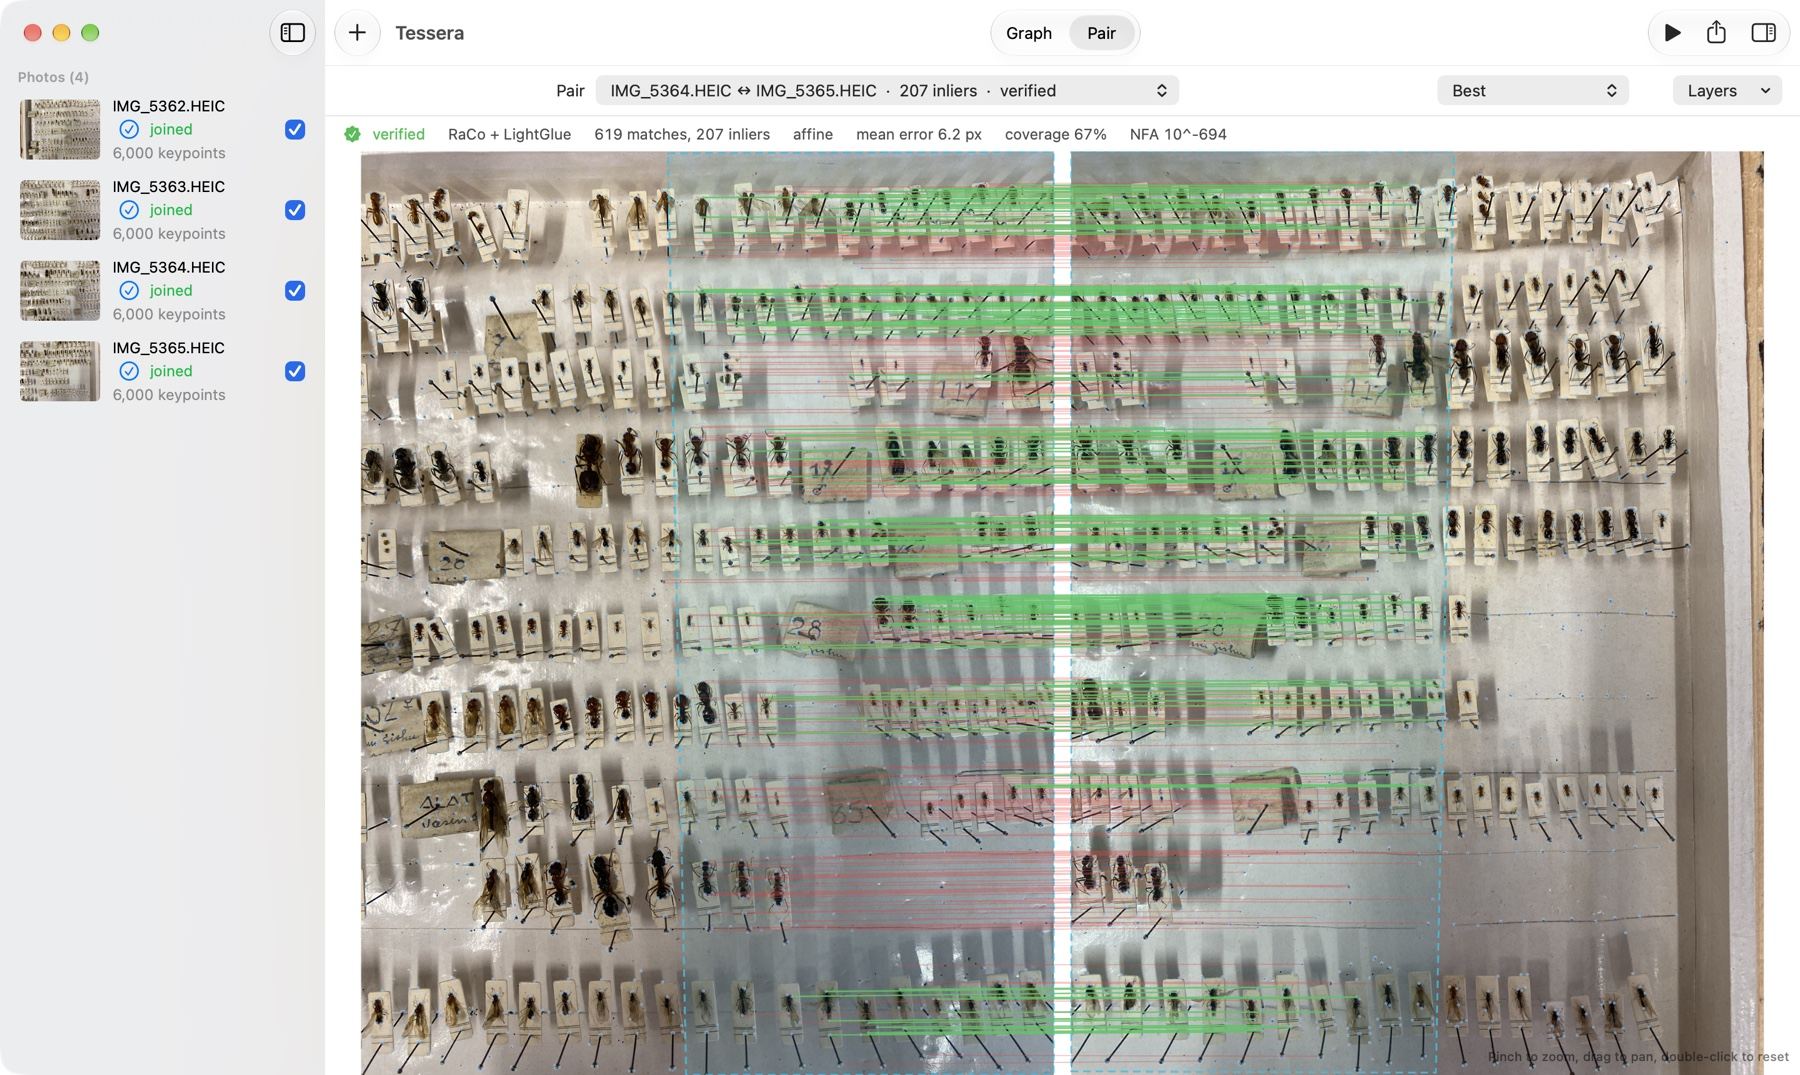
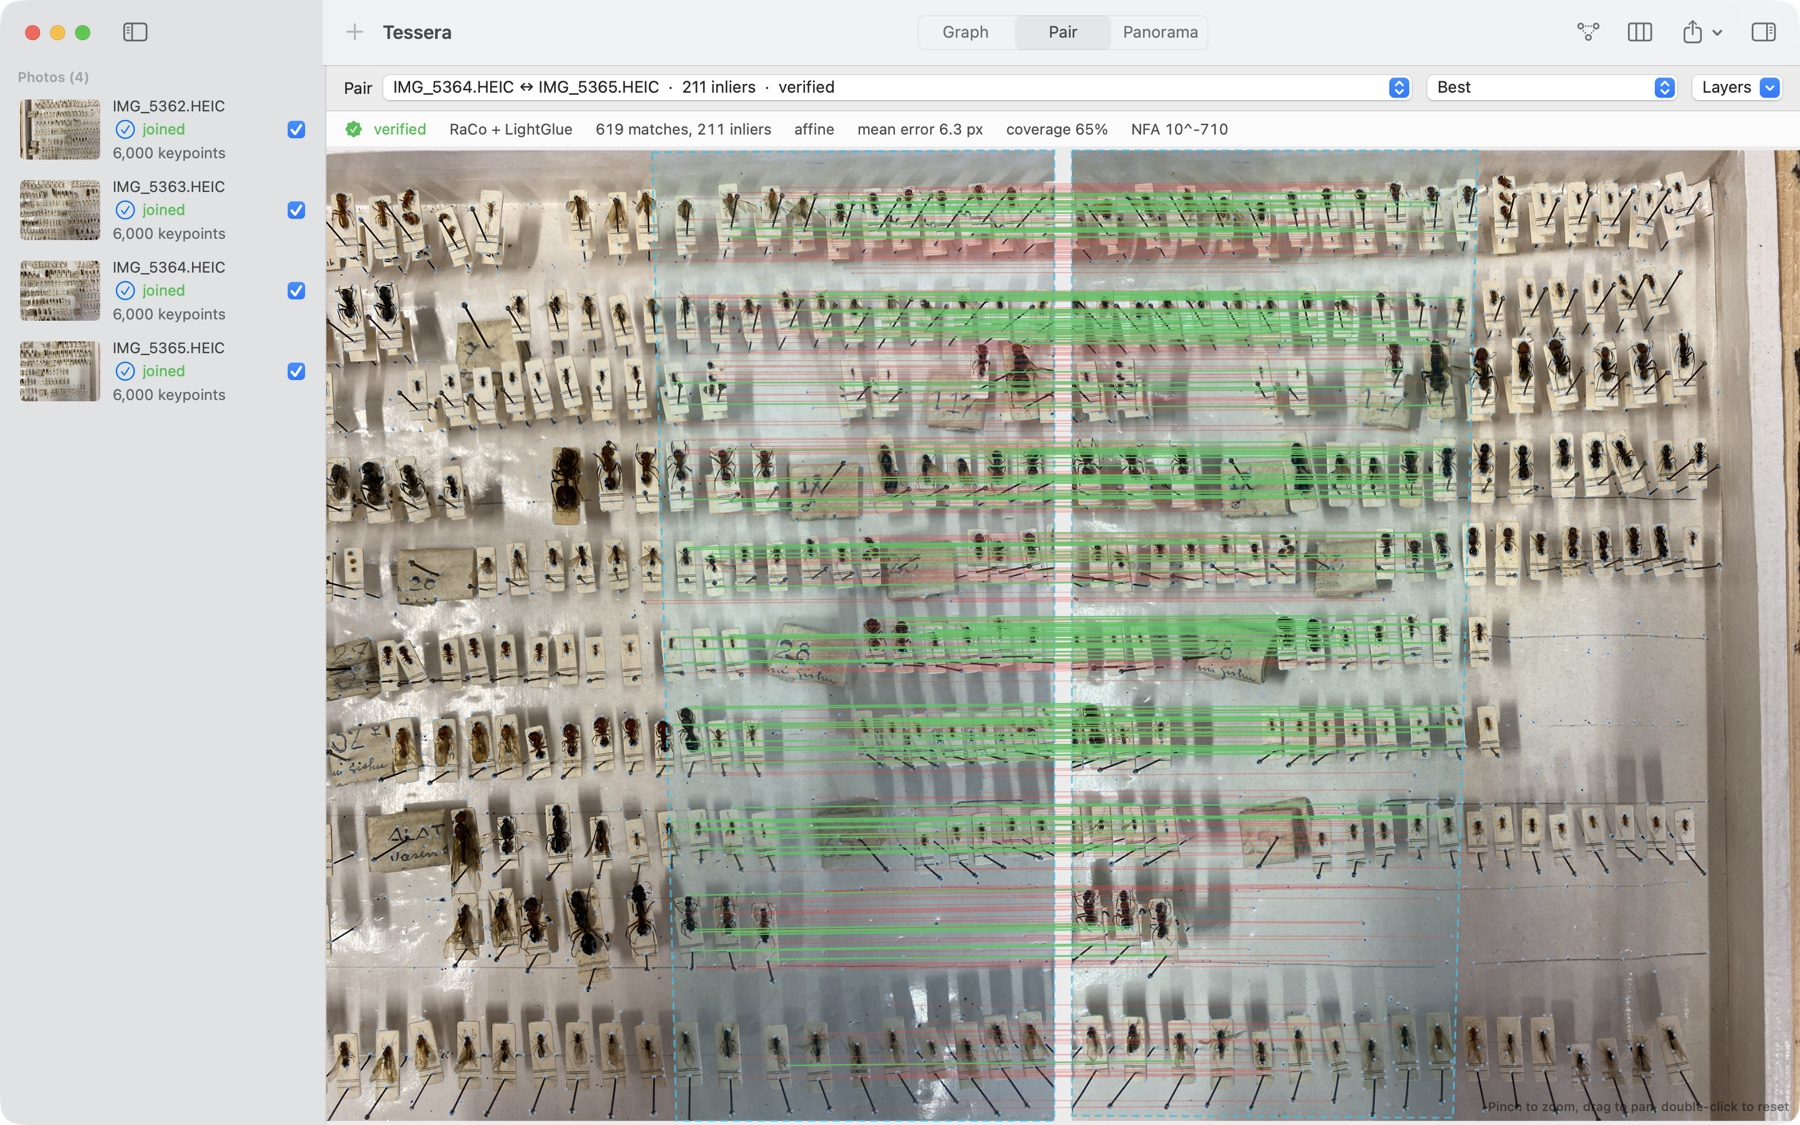
Keep build paths out of the binary, refresh screenshots, finish the audit fixes
- build OpenCV with -ffile-prefix-map, a neutral install prefix and
  VCS version, and strip this checkout's path from the two generated
  files compiled into libopencv_core; CStitchCore maps the vendored
  header paths too; make-release.sh fails if a path is left and keeps
  the dSYM of the stripped binary in build/dsym
- new light-mode screenshots of the current interface, and the drawer
  numbers in BENCHMARKS and the README updated to match
- translate the remaining engine errors and correct two Italian notes;
  the alignment note now names the pair that was left out
- small corrections in CONTRIBUTING, ARCHITECTURE and the README

diff --git a/Packages/StitchKit/Sources/StitchKit/PanoramaWriter.swift b/Packages/StitchKit/Sources/StitchKit/PanoramaWriter.swift
@@ -81,7 +81,7 @@ public struct PanoramaPixels: Sendable {
     /// hold no transparent pixel, is given).
     func sourceImage(crop: PixelRect? = nil) throws -> CGImage {
         guard pixels.count >= bytesPerRow * height, width > 0, height > 0 else {
-            throw StitchError.engine("Panorama buffer is smaller than its size")
+            throw StitchError.engine(String(localized: "Panorama buffer is smaller than its size"))
         }
         let alpha: CGImageAlphaInfo = opaque || crop != nil ? .noneSkipLast : .last
         let info: CGBitmapInfo = bitsPerComponent == 16
@@ -92,9 +92,9 @@ public struct PanoramaPixels: Sendable {
                                    bitsPerPixel: 4 * bitsPerComponent, bytesPerRow: bytesPerRow, space: colorSpace,
                                    bitmapInfo: info, provider: provider, decode: nil, shouldInterpolate: false,
                                    intent: .defaultIntent)
-        else { throw StitchError.engine("Cannot describe the panorama as an image") }
+        else { throw StitchError.engine(String(localized: "Cannot describe the panorama as an image")) }
         guard let crop else { return source }
-        guard let cropped = source.cropping(to: crop.cgRect) else { throw StitchError.engine("Invalid crop") }
+        guard let cropped = source.cropping(to: crop.cgRect) else { throw StitchError.engine(String(localized: "Invalid crop")) }
         return cropped
     }
 
@@ -120,7 +120,7 @@ public struct PanoramaPixels: Sendable {
             context.fill(rect)
         }
         context.draw(source, in: rect)
-        guard let image = context.makeImage() else { throw StitchError.engine("Cannot convert the panorama") }
+        guard let image = context.makeImage() else { throw StitchError.engine(String(localized: "Cannot convert the panorama")) }
         return image
     }
 
@@ -135,7 +135,7 @@ public struct PanoramaPixels: Sendable {
         else { throw StitchError.engine(String(localized: "Not enough memory for the preview")) }
         context.interpolationQuality = .high
         context.draw(source, in: CGRect(x: 0, y: 0, width: width, height: height))
-        guard let image = context.makeImage() else { throw StitchError.engine("Cannot make the preview") }
+        guard let image = context.makeImage() else { throw StitchError.engine(String(localized: "Cannot make the preview")) }
         return image
     }
 }

diff --git a/Packages/StitchKit/Sources/StitchKit/LearnedModels.swift b/Packages/StitchKit/Sources/StitchKit/LearnedModels.swift
@@ -274,7 +274,7 @@ func cacheDirectory(_ name: String) -> URL {
 func packageDigest(_ package: URL) throws -> String {
     let keys: [URLResourceKey] = [.isRegularFileKey, .fileSizeKey, .contentModificationDateKey]
     guard let enumerator = FileManager.default.enumerator(at: package, includingPropertiesForKeys: keys) else {
-        throw StitchError.engine("Cannot read \(package.lastPathComponent)")
+        throw StitchError.engine(String(localized: "Cannot read \(package.lastPathComponent)"))
     }
     var lines: [String] = []
     let base = package.path
@@ -284,7 +284,7 @@ func packageDigest(_ package: URL) throws -> String {
         let stamp = values.contentModificationDate?.timeIntervalSince1970 ?? 0
         lines.append("\(file.path.dropFirst(base.count))|\(values.fileSize ?? 0)|\(stamp)")
     }
-    guard !lines.isEmpty else { throw StitchError.engine("\(package.lastPathComponent) is empty") }
+    guard !lines.isEmpty else { throw StitchError.engine(String(localized: "\(package.lastPathComponent) is empty")) }
     let digest = SHA256.hash(data: Data(lines.sorted().joined(separator: "\n").utf8))
     return digest.prefix(8).map { String(format: "%02x", $0) }.joined()
 }

diff --git a/Packages/StitchKit/Sources/StitchKit/Alignment.swift b/Packages/StitchKit/Sources/StitchKit/Alignment.swift
@@ -273,7 +273,7 @@ enum Aligner {
             let pair = problem.pairs[worst]
             let limit = max(3 * median, problem.thresholds[pair.b])
             guard alignment.pairRMS[worst] > limit, problem.isConnected(without: [worst]) else { break }
-            notes.append(String(format: String(localized: "%@ and %@ were left out of the alignment (%.1f px off the others)"),
+            notes.append(String(format: String(localized: "The pair %@ ↔ %@ was left out of the alignment (%.1f px off the others)"),
                                 locale: .current, problem.images[pair.a].name, problem.images[pair.b].name, alignment.pairRMS[worst]))
             problem.pairs.remove(at: worst)
             alignment = try solve(alignment.model, problem, anchor: alignment.anchor, straighten: straighten)

diff --git a/Packages/StitchKit/Package.swift b/Packages/StitchKit/Package.swift
@@ -25,6 +25,8 @@ let package = Package(
             name: "CStitchCore",
             cxxSettings: [
                 .unsafeFlags(["-I\(vendor)/include/opencv5"]),
+                // OpenCV's inline headers put __FILE__ into assertion messages: no build-machine paths.
+                .unsafeFlags(["-ffile-prefix-map=\(vendor)/=Vendor/opencv/"]),
                 .unsafeFlags(["-I\(brew)/include"], .when(traits: onnx)),
                 .define("TESSERA_ONNXRUNTIME", .when(traits: onnx)),
             ],

diff --git a/README.md b/README.md
@@ -10,7 +10,7 @@ When a stitcher fails, it often says little more than "not enough similarities".
 
 ![Pair view: inliers in green and outliers in red between two neighbouring photos, with the overlap outlined](docs/images/pair-view.jpg)
 
-Hundreds of near-identical labels in a box of pinned ants. LightGlue still finds 207 consistent matches, and the a-contrario test confirms them:
+Hundreds of near-identical labels in a box of pinned ants. LightGlue still finds 211 consistent matches, and the a-contrario test confirms them:
 
 ![Pair view on a box of pinned ants with repeated labels](docs/images/pair-view-repeated-labels.jpg)
 
@@ -47,7 +47,7 @@ The settings inspector has, among others:
 - Mode: Automatic, Rotation for a camera that turns on the spot, Plane for tiles of a flat subject (microscope slides, insect drawers), or Document for a flat original shot from different angles.
 - Projection, for rotation panoramas: Rectilinear, Cylindrical or Spherical. Automatic picks rectilinear for narrow fields of view, cylindrical for wide ones and spherical when the panorama is also tall. Planar mosaics and documents are always flat.
 - Size: full resolution, half or a quarter.
-- Pixels: Blended across seams (seams follow the edges of objects and are blended over a wide band), or Original values, where each pixel comes from a single photo. For measurements, set Exposure to Unchanged under Advanced as well, so that no gain is applied: each pixel is then interpolated from one photo by the warp (bicubic), without gains or blending. Photos that do not share one colour space are converted to Display P3.
+- Pixels: Blended across seams (seams follow the edges of objects and are blended over a wide band), or Original values, where each pixel comes from a single photo. For measurements, set Exposure to Unchanged under Advanced as well, so that no gain is applied: at full resolution each pixel is then interpolated from one photo by the warp (bicubic), without gains or blending (at Half or Quarter size the photos are scaled down first). Photos that do not share one colour space are converted to Display P3.
 
 ## Command line
 

diff --git a/docs/BENCHMARKS.md b/docs/BENCHMARKS.md
@@ -31,7 +31,7 @@ The app's default settings, which `stitchbench` gets with `--source both`: both 
 | Newspaper | similarity, flat | 1794 x 1138 | 0.42 px | 0.9 s | 0.7 s | 1.1 GB |
 | Boat | rotation, cylindrical | 10761 x 2752, cropped to 10726 x 2294 | 6.1 px | 1.1 s | 1.8 s | 3.2 GB |
 
-On the drawer the stitching time splits into 0.02 s of alignment, 0.41 s of seam finding, 1.02 s of warping and exposure and 0.35 s of blending; writing a JPEG takes another 0.26 s. The alignment errors of the drawer and the box come from parallax: the specimens stand on pins above the bottom of the drawer and the photos were taken by hand, so no single plane fits every match. The seams go around the specimens, which hides most of it. The newspaper, a flat page, aligns to under half a pixel.
+These runs had other work going on in the background (load average about 4): idle, the drawer's analysis takes 0.9 s, as in the table above. On the drawer the stitching time splits into 0.02 s of alignment, 0.41 s of seam finding, 1.02 s of warping and exposure and 0.35 s of blending; writing a JPEG takes another 0.26 s. The alignment errors of the drawer and the box come from parallax: the specimens stand on pins above the bottom of the drawer and the photos were taken by hand, so no single plane fits every match. The seams go around the specimens, which hides most of it. The newspaper, a flat page, aligns to under half a pixel.
 
 ## Learned extractor, per photo (1024 x 768)
 
@@ -64,9 +64,9 @@ Inliers on the chosen model for the five consecutive pairs:
 | Pair | RootSIFT | RaCo-ALIKED + LightGlue |
 |---|---|---|
 | 1-2 | 33 | 69 |
-| 2-3 | 71 | 73 |
-| 3-4 | 90 | 104 |
+| 2-3 | 71 | 70 |
+| 3-4 | 90 | 92 |
 | 4-5 | 23 (rejected: inliers on a strip) | 47 |
-| 5-6 | 62 | 165 |
+| 5-6 | 62 | 183 |
 
 Only 20-25% of the tentative matches are inliers even on correct pairs: reflections of the ceiling lights move with the camera and the pinned specimens show parallax, so they do not follow a single plane-to-plane transform.

diff --git a/CONTRIBUTING.md b/CONTRIBUTING.md
@@ -17,4 +17,4 @@ For the ONNX Runtime backends, `brew install onnxruntime` and build with `--trai
 - Swift 6 with strict concurrency; the app is SwiftUI.
 - C++ stays behind the C API in `Packages/StitchKit/Sources/CStitchCore/include/stitchcore.h`; Swift owns every native handle.
 - Changes to the engine need a test in `Packages/StitchKit/Tests` (synthetic tiles with known offsets work well) and, for performance work, before/after numbers from `stitchbench`.
-- Model changes go through `tools/export` and must keep the equivalence checks passing: `split_extractor.py check`, and `swift test --traits ONNXRuntime` with the full set from `tools/export/make-models.sh`, which runs `DescriptorHeadTests` and the ONNX comparisons in `NativeSelectTests`. Without the trait and that set they are reported as skipped, not failed. Run them from `Packages/StitchKit` with `TESSERA_MODELS="$PWD/../../Models"`, so that a model set the app installed in Application Support is not picked first.
+- Model changes go through `tools/export` and must keep the equivalence checks passing: `split_extractor.py check`, and `swift test --traits ONNXRuntime`, which runs `DescriptorHeadTests` (it needs the full set from `tools/export/make-models.sh`) and the ONNX comparisons in `NativeSelectTests` (the one on real photos also needs folders of overlapping photos in `TestData/real`, or `TESSERA_TESTDATA` pointing to them). Without the trait, the models or the photos they are reported as skipped, not failed. Run them from `Packages/StitchKit` with `TESSERA_MODELS="$PWD/../../Models"`, so that a model set the app installed in Application Support is not picked first.

diff --git a/docs/ARCHITECTURE.md b/docs/ARCHITECTURE.md
@@ -33,7 +33,7 @@ With four photos or fewer, every pair is matched. Otherwise the affinity of a pa
 ### 3. Matching
 
 - **RootSIFT**: exact nearest neighbours from one Accelerate matrix product per block of rows (the descriptors have unit norm, so distances follow from dot products), Lowe's ratio test at 0.8 and a mutual check.
-- **LightGlue** on Core ML (GPU, fp16 by default). Keypoints are normalised by the long edge of the fixed canvas (1024 px), around the canvas centre. The exported matcher returns, for every keypoint of the first photo, its partner and a confidence that is zero when the pair is not mutual; matches above 0.1 are kept. Consecutive shots are matched while extraction is still running.
+- **LightGlue** on Core ML (GPU, fp16 by default). Keypoints are centred on the fixed canvas and divided by half its long edge (512 px), as LightGlue's `normalize_keypoints` does. The exported matcher returns, for every keypoint of the first photo, its partner and a confidence that is zero when the pair is not mutual; matches above 0.1 are kept. Consecutive shots are matched while extraction is still running.
 
 ### 4. Verification
 
